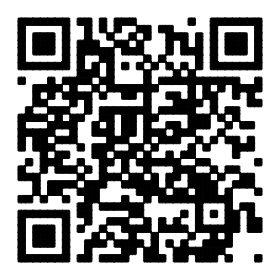
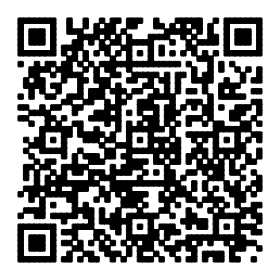
Site updated at 2018-05-24 02:46:18 UTC

diff --git a/blog/2018/05/12/java-tech-overview/index.html b/blog/2018/05/12/java-tech-overview/index.html
@@ -152,7 +152,7 @@
   </header>
 
 
-<div class="post-content"><p>一个合格的Java后端工程师需要掌握哪些技能呢？扫描下面的二维码可以看到<a href="http://download.broadview.com.cn/Original/1804ccac3a68abd2e6dd">Java后端技术概览图</a>。</p>
+<div class="post-content"><p>一个合格的Java后端工程师需要掌握哪些技能呢？扫描下面的二维码可以看到<a href="https://raw.githubusercontent.com/superhj1987/pragmatic-java-engineer/master/book/server-tech/media/java-skill-tree.png">Java后端技术概览图</a>。</p>
 
 <p><img src="/post_images/javatech/tech-tree.png" alt="" /></p>
 
@@ -245,7 +245,7 @@
 <li>数据库：掌握数据库的很大一个关键点就在于对索引的使用，可以说，正确地使用索引就基本等于掌握了数据库的使用。目前绝大多数据库都是使用B树做为索引的数据结构，目的就是为了利用磁盘顺序读写的特性。不同的数据库由于本身设计目的的不同，都有一些独特的优势，如：MongoDB天然支持sharding，但受限于NoSQL，在重事务、有关联关系的场景下并不适用；HBase使用LSM作为底层数据结构，牺牲了读性能来换取高速的写性能。</li>
 <li>搜索引擎：搜索引擎主要应对全文检索以及多维度查询的业务场景。掌握搜索引擎使用的数据结构、集群方式、配置的关键点有助于更好地使用搜索引擎服务于业务应用。</li>
 <li>消息队列：消息队列有两种角色：生产者和消费者，两种角色对于消息队列的需求也不一样。其中，对于消费者来说，消息消费的方式包括发布-订阅和队列两种。消息队列在语义保证上分为：At Most Once、At Least Once、Exactly Once三种模式，需要更具特定的业务场景选择合适的语义保证。此外，消息队列对于高可用、消息安全的保证决定了此消息队列的可靠性。</li>
-<li>数据存储和处理：数据存储下来最终还是要用来做分析和处理的。数据的处理分为离线处理和实时处理。离线处理的优势在于能够处理大量数据，但是一般会有T+1的延迟，适用于计算量大但是对于结果允许有延时的场景。但对于离线数据分析，还有一个很关键的就是数据倾斜问题。所谓数据倾斜指的是region数据分布不均，造成有的结点负载很低，而有些却负载很高，从而影响整体的性能。因此，处理好数据倾斜问题对于离线数据处理是很关键的。而实时处理一般是流式处理方式，适用于数据能够转换为数据流，对于结果要求及时性的场景。对于实时数据分析，需要注意的就是实时数据处理结果写入存储的时候，要考虑并发的问题，虽然对于Storm的Bolt程序来说不会有并发的问题，但是写入的存储介质是会面临多任务同时读写的。通常采用的方案就是采用时间窗口的方式对数据做缓冲后批量写入。</li>
+<li>数据存储和分析：数据存储下来最终还是要用来做分析和处理的。数据的处理分为离线处理和实时处理。离线处理的优势在于能够处理大量数据，但是一般会有T+1的延迟，适用于计算量大但是对于结果允许有延时的场景。但对于离线数据分析，还有一个很关键的就是数据倾斜问题。所谓数据倾斜指的是region数据分布不均，造成有的结点负载很低，而有些却负载很高，从而影响整体的性能。因此，处理好数据倾斜问题对于离线数据处理是很关键的。而实时处理一般是流式处理方式，适用于数据能够转换为数据流，对于结果要求及时性的场景。对于实时数据分析，需要注意的就是实时数据处理结果写入存储的时候，要考虑并发的问题，虽然对于Storm的Bolt程序来说不会有并发的问题，但是写入的存储介质是会面临多任务同时读写的。通常采用的方案就是采用时间窗口的方式对数据做缓冲后批量写入。此外，基于Yarn、Mesos这种资源统一管理调度系统进行数据分析需要根据运行原理的不同进行适当的配置。</li>
 <li>数据同步：数据仓库的数据来源除了直接的日志外还有一个很关键的就是业务数据库。从业务数据库到数据仓库的过程称为数据同步。有基于SQL的同步方案，也有基于MySQL binglog的增量同步方案。</li>
 </ul>
 

diff --git a/blog/2018/03/10/regx/index.html b/blog/2018/03/10/regx/index.html
@@ -351,7 +351,7 @@
 
 <hr />
 
-<p>中华万年历技术团队长期求Java研发工程师，给你挑战<strong>亿级用户</strong>、<strong>千万日活APP</strong>开发的机会。感兴趣者可发送简历到<a href="&#x6d;&#97;&#105;&#108;&#x74;&#111;&#58;&#104;&#x61;&#110;&#x67;&#64;&#x65;&#x74;&#x6f;&#x75;&#x63;&#104;&#x2e;&#x63;&#x6e;">&#104;&#97;&#x6e;&#103;&#64;&#x65;&#x74;&#x6f;&#117;&#99;&#104;&#x2e;&#99;&#110;</a>。要求如下：</p>
+<p>中华万年历技术团队长期求Java研发工程师，给你挑战<strong>亿级用户</strong>、<strong>千万日活APP</strong>开发的机会。感兴趣者可发送简历到<a href="&#x6d;&#x61;&#105;&#108;&#116;&#x6f;&#58;&#104;&#x61;&#110;&#103;&#64;&#x65;&#x74;&#x6f;&#117;&#x63;&#104;&#x2e;&#99;&#x6e;">&#x68;&#x61;&#x6e;&#103;&#64;&#x65;&#x74;&#x6f;&#117;&#x63;&#104;&#x2e;&#x63;&#110;</a>。要求如下：</p>
 
 <p><img src="/images/blog_images/java_job.jpg" width="350" style="margin:0 auto;display:block"/></p>
 

diff --git a/index.html b/index.html
@@ -142,7 +142,7 @@
   </header>
 
 
-  <div class="post-content"><p>一个合格的Java后端工程师需要掌握哪些技能呢？扫描下面的二维码可以看到<a href="http://download.broadview.com.cn/Original/1804ccac3a68abd2e6dd">Java后端技术概览图</a>。</p>
+  <div class="post-content"><p>一个合格的Java后端工程师需要掌握哪些技能呢？扫描下面的二维码可以看到<a href="https://raw.githubusercontent.com/superhj1987/pragmatic-java-engineer/master/book/server-tech/media/java-skill-tree.png">Java后端技术概览图</a>。</p>
 
 <p><img src="/post_images/javatech/tech-tree.png" alt="" /></p>
 

diff --git a/blog/2016/06/17/java-skill-tree/index.html b/blog/2016/06/17/java-skill-tree/index.html
@@ -159,7 +159,7 @@
 <!--more-->
 
 
-<p><a href="/images/blog_images/java-skill-tree.png"><img src="/images/blog_images/java-skill-tree.png" alt="java-skill-tree" /></a></p>
+<p><a href="https://raw.githubusercontent.com/superhj1987/pragmatic-java-engineer/master/book/server-tech/media/java-skill-tree.png"><img src="https://raw.githubusercontent.com/superhj1987/pragmatic-java-engineer/master/book/server-tech/media/java-skill-tree.png" alt="java-skill-tree" /></a></p>
 </div>
 <div style="width:100%;text-align:center;display: none" id="wxFooter">
   <img src="/images/blog_images/h.png"/>
